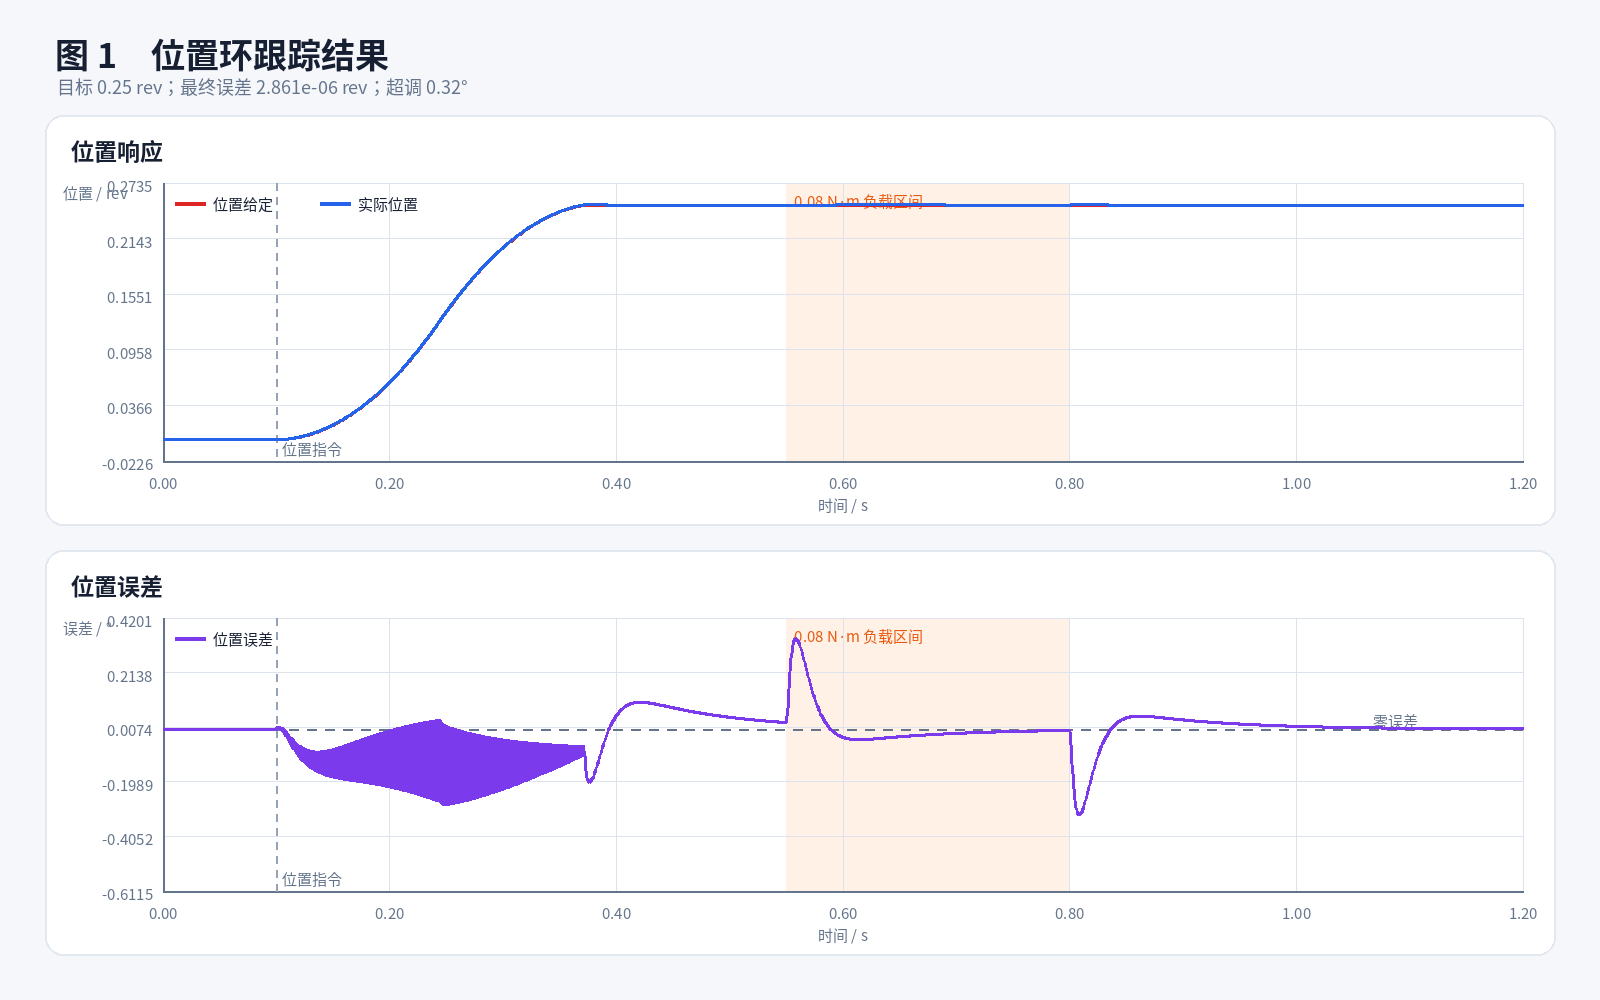
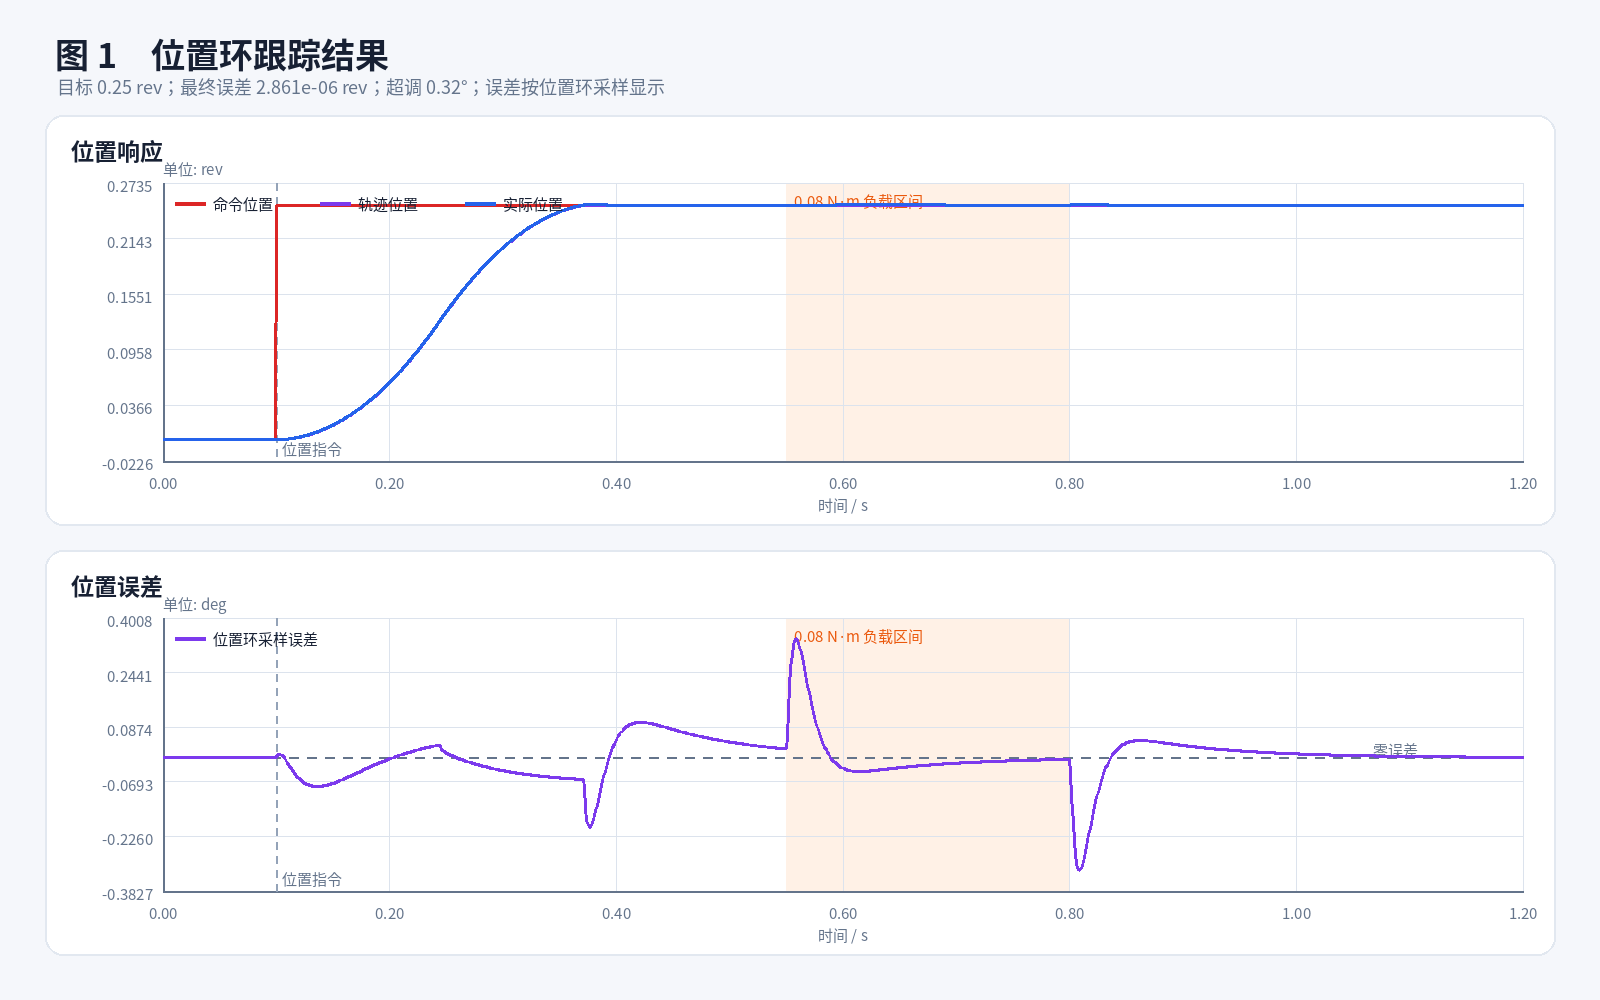
Clarify base position tracking plots

diff --git a/FOC 学习资料整理/foc_simulation/rdrive_three_loop/plot_results.py b/FOC 学习资料整理/foc_simulation/rdrive_three_loop/plot_results.py
@@ -158,7 +158,7 @@ def panel(
 
     draw.line((plot_left, plot_top, plot_left, plot_bottom), fill=AXIS, width=2)
     draw.line((plot_left, plot_bottom, plot_right, plot_bottom), fill=AXIS, width=2)
-    draw.text((left + 18, plot_top - 2), ylabel, font=FONT_SMALL, fill=MUTED)
+    draw.text((plot_left, plot_top - 26), ylabel, font=FONT_SMALL, fill=MUTED)
     time_label = "时间 / s"
     tw = draw.textbbox((0, 0), time_label, font=FONT_SMALL)[2]
     draw.text(((plot_left + plot_right - tw) / 2, bottom - 32), time_label, font=FONT_SMALL, fill=MUTED)
@@ -188,6 +188,23 @@ def panel(
         legend_x += 145
 
 
+def position_loop_sample_indices(time: np.ndarray, reference: np.ndarray) -> np.ndarray:
+    """Pick one log sample per position-loop update for readable error plots."""
+    if len(time) < 3:
+        return np.arange(len(time))
+    log_dt = float(np.median(np.diff(time)))
+    changed = np.flatnonzero(np.abs(np.diff(reference)) > 1.0e-12) + 1
+    if len(changed) >= 3:
+        stride = int(round(float(np.median(np.diff(changed)))))
+    else:
+        stride = int(round(0.001 / max(log_dt, 1.0e-12)))
+    stride = max(1, stride)
+    indices = np.arange(0, len(time), stride, dtype=int)
+    if indices[-1] != len(time) - 1:
+        indices = np.append(indices, len(time) - 1)
+    return indices
+
+
 def new_figure(title: str, subtitle: str) -> Image.Image:
     image = Image.new("RGB", (WIDTH, HEIGHT), BG)
     draw = ImageDraw.Draw(image)
@@ -211,16 +228,24 @@ def main() -> None:
     event = ((scenario["position_step_time_s"], "位置指令"),)
 
     position_error_deg = (data["position_ref_rev"] - data["position_rev"]) * 360.0
+    position_error_indices = position_loop_sample_indices(t, data["position_ref_rev"])
+    position_series = [
+        ("轨迹位置", data["position_ref_rev"], PURPLE),
+        ("实际位置", data["position_rev"], BLUE),
+    ]
+    if "command_position_rev" in data.dtype.names:
+        position_series.insert(0, ("命令位置", data["command_position_rev"], RED))
     image = new_figure(
         "图 1　位置环跟踪结果",
-        f"目标 0.25 rev；最终误差 {summary['final_position_error_rev']:.3e} rev；超调 {summary['overshoot_rev']*360:.2f}°",
+        f"目标 0.25 rev；最终误差 {summary['final_position_error_rev']:.3e} rev；"
+        f"超调 {summary['overshoot_rev']*360:.2f}°；误差按位置环采样显示",
     )
     panel(image, (45, 115, 1555, 525), t,
-          (("位置给定", data["position_ref_rev"], RED), ("实际位置", data["position_rev"], BLUE)),
-          "位置响应", "位置 / rev", load_shade, event)
-    panel(image, (45, 550, 1555, 955), t,
-          (("位置误差", position_error_deg, PURPLE),),
-          "位置误差", "误差 / °", load_shade, event, hlines=((0.0, AXIS, "零误差"),))
+          position_series,
+          "位置响应", "单位: rev", load_shade, event)
+    panel(image, (45, 550, 1555, 955), t[position_error_indices],
+          (("位置环采样误差", position_error_deg[position_error_indices], PURPLE),),
+          "位置误差", "单位: deg", load_shade, event, hlines=((0.0, AXIS, "零误差"),))
     save_figure(image, "01_position_tracking.png")
 
     speed_error = data["speed_ref_rev_s"] - data["speed_rev_s"]
@@ -273,9 +298,9 @@ def main() -> None:
           (("电磁转矩", data["torque_nm"], BLUE), ("负载转矩", data["load_nm"], ORANGE),
            ("估计负载", data["load_estimate_nm"], GREEN), ("运动前馈", data["motion_feedforward_nm"], PURPLE)),
           "电磁转矩与外部负载", "转矩 / N·m", load_shade, event)
-    panel(image, (45, 550, 1555, 955), t,
-          (("位置误差", position_error_deg, PURPLE), ("速度", data["speed_rev_s"], CYAN)),
-          "扰动期间的位置误差与速度", "误差 ° / 速度 rev/s", load_shade, event,
+    panel(image, (45, 550, 1555, 955), t[position_error_indices],
+          (("位置环采样误差", position_error_deg[position_error_indices], PURPLE),),
+          "扰动期间的位置误差", "单位: deg", load_shade, event,
           hlines=((0.0, AXIS, "零线"),))
     save_figure(image, "05_load_disturbance.png")
 
